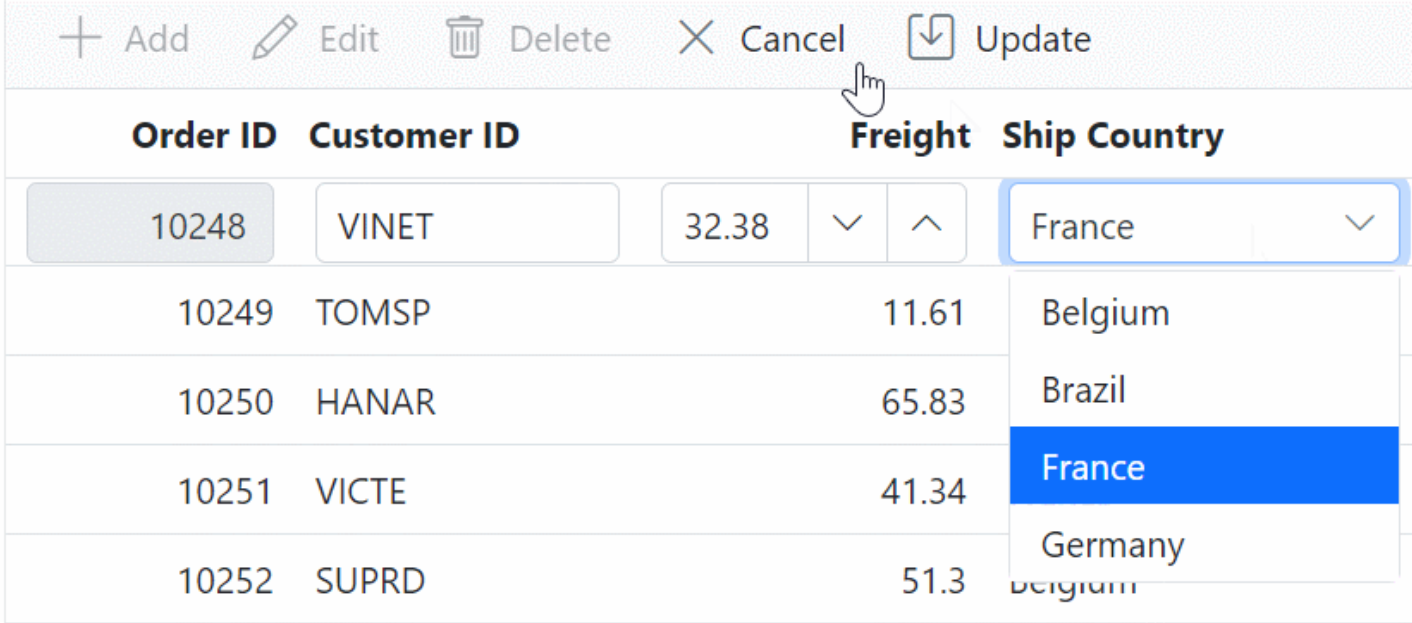
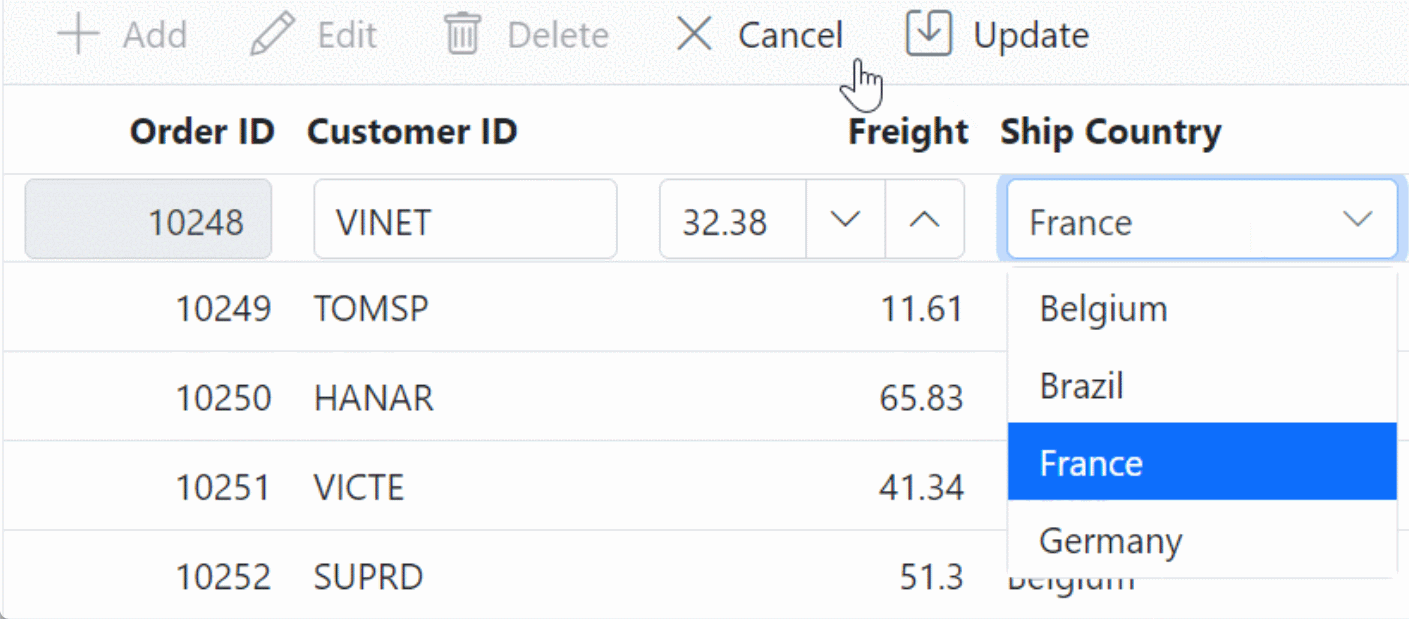
Reduced the image size

diff --git a/ej2-asp-core-mvc/grid/EJ2_ASP.MVC/editing/edit-types.md b/ej2-asp-core-mvc/grid/EJ2_ASP.MVC/editing/edit-types.md
@@ -471,7 +471,7 @@ The following example demonstrates how to render a MultiSelect component in the 
 {% endhighlight %}
 {% endtabs %}
 
-![Render multiselect component](../images/editing/render-multiselect-dropdown.png)
+![Render multiselect component](../images/editing/render-multiselect-dropdown.jpeg)
 
 ### Render RichTextEditor component in edit form
 
@@ -492,7 +492,7 @@ The following example demonstrates how to render a RichTextEditor component in t
 {% endhighlight %}
 {% endtabs %}
 
-![Render richtext editor component](../images/editing/render-richtext-editor.png)
+![Render richtext editor component](../images/editing/render-richtext-editor.jpeg)
 
 ### Render Upload component in edit form  
 
@@ -511,7 +511,7 @@ The following example demonstrates how to render a Upload control in the **Emplo
 {% endhighlight %}
 {% endtabs %}
 
-![Render Upload component in edit form](../images/editing/edit-types-upload.png)
+![Render Upload component in edit form](../images/editing/edit-types-upload.jpeg)
 
 ### Render AutoComplete component in edit form 
 

diff --git a/ej2-asp-core-mvc/grid/EJ2_ASP.NETCORE/editing/edit-types.md b/ej2-asp-core-mvc/grid/EJ2_ASP.NETCORE/editing/edit-types.md
@@ -471,7 +471,7 @@ The following example demonstrates how to render a MultiSelect component in the 
 {% endhighlight %}
 {% endtabs %}
 
-![Render multiselect component](../images/editing/render-multiselect-dropdown.png)
+![Render multiselect component](../images/editing/render-multiselect-dropdown.jpeg)
 
 ### Render RichTextEditor component in edit form
 
@@ -492,7 +492,7 @@ The following example demonstrates how to render a RichTextEditor component in t
 {% endhighlight %}
 {% endtabs %}
 
-![Render richtext editor component](../images/editing/render-richtext-editor.png)
+![Render richtext editor component](../images/editing/render-richtext-editor.jpeg)
 
 ### Render Upload component in edit form  
 
@@ -511,7 +511,7 @@ The following example demonstrates how to render a Upload control in the **Emplo
 {% endhighlight %}
 {% endtabs %}
 
-![Render Upload component in edit form](../images/editing/edit-types-upload.png)
+![Render Upload component in edit form](../images/editing/edit-types-upload.jpeg)
 
 ### Render AutoComplete component in edit form 
 
